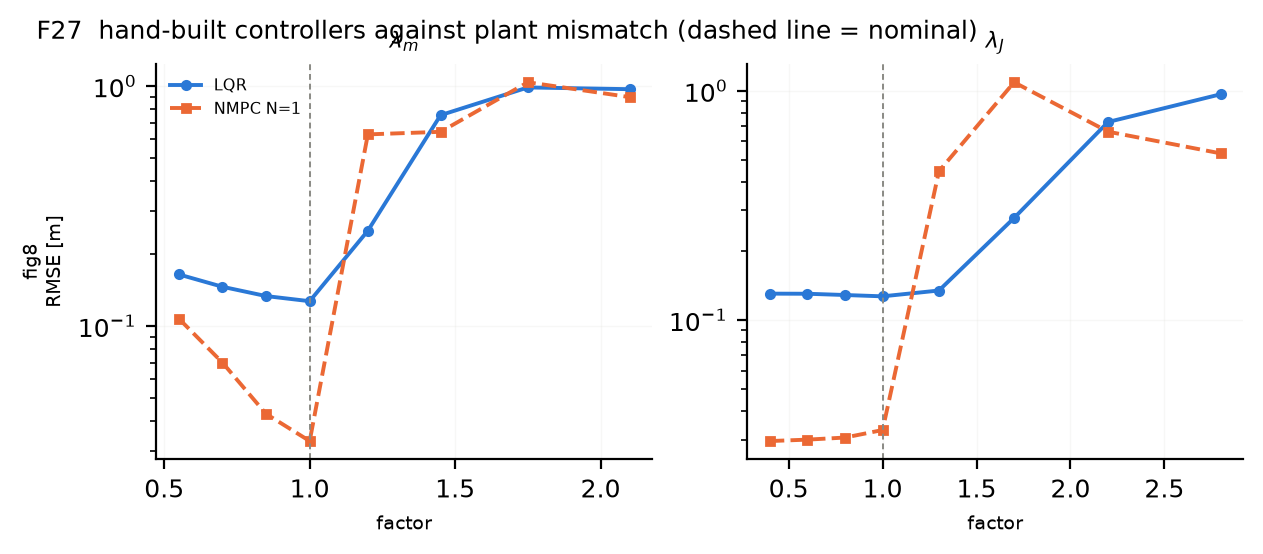
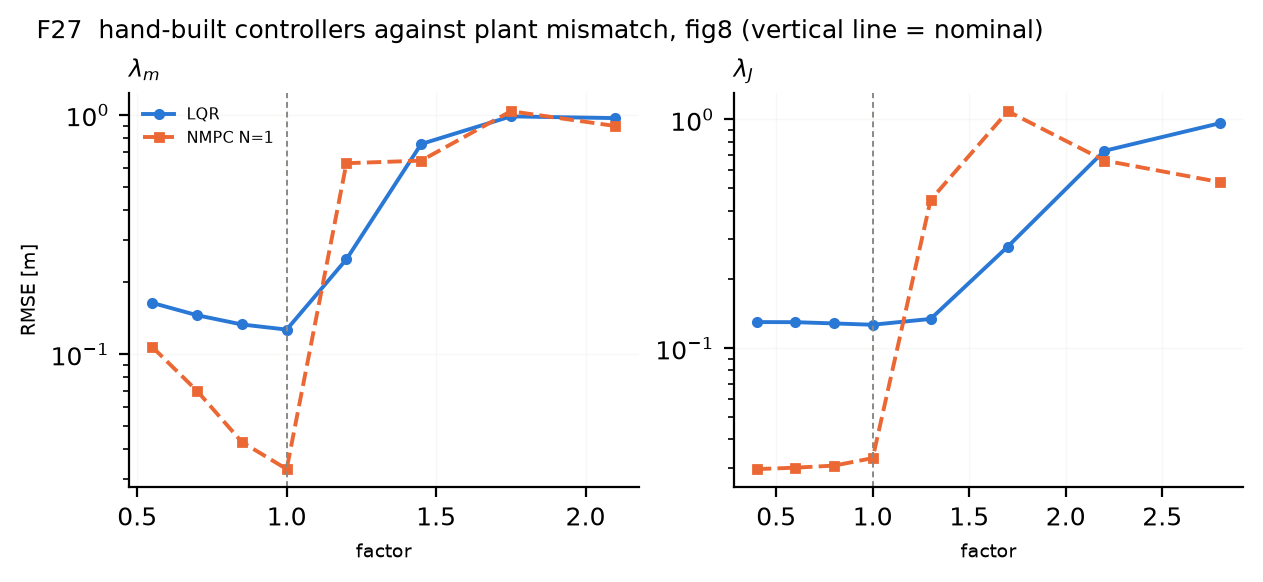
nb8: report the ABSOLUTE crossover beside the relative break factor
The break factor measures 3x each controller's OWN nominal, so a controller
that starts more accurate trips it sooner while still leading.  NMPC N=1
sits at 0.031 m at nominal against LQR's 0.127 m, so "NMPC breaks at 0.55x
mass" means it reached 0.093 m there -- where LQR was at 0.168 m and
therefore still worse.  The previous commit's headline, "NMPC N=1 is more
fragile to model mismatch than LQR on both axes", is true of the SLOPE and
false of the LEVEL over much of the range.  It should not have been stated
as a result off a relative metric alone.

_crossover() now reports the factor at which NMPC N=1 actually stops
beating LQR in absolute RMSE, computed separately above and below nominal,
because mismatch has two directions and a controller can be robust to one
and not the other.  Measured at smoke:

                NMPC loses below      NMPC loses above
    lambda_m           never                1.20x
    lambda_J           never                1.30x

so the honest statement is that NMPC N=1 beats LQR for ANY under-estimate
of mass or inertia and loses only above a 20 % mass or 30 % inertia
OVER-estimate.  The online solve degrades faster from a lower base; whether
that is "less robust" depends on the question, and the two columns disagree
over much of the range.  Both are now printed side by side with a note
saying the relative one must not be read alone.

Also fixes F27/F29 layout: the panel titles collided with the suptitle and
[…]

diff --git a/study/notebooks/nb8_sensitivity.py b/study/notebooks/nb8_sensitivity.py
@@ -122,11 +122,14 @@ for _a in AXES:
 
 
 def _breakpoint(df, ctrl, axis, thresh=3.0):
-    """Factor at which RMSE first exceeds `thresh` x its nominal value.
+    """Factor at which RMSE first exceeds `thresh` x **its own** nominal.
 
-    Reported instead of a bare worst case because 'where it breaks' is the
-    question; a controller that degrades gracefully to 2x over a 4x parameter
-    error is a different object from one that is fine until it is not.
+    A RELATIVE measure, and it must be read as one: a controller that starts
+    four times more accurate trips a 3x threshold four times sooner while still
+    being ahead in absolute terms.  Measured here, NMPC N=1 sits at 0.031 m at
+    nominal against LQR's 0.127 m, so "NMPC breaks at 0.55x mass" means it
+    reached 0.093 m there -- where LQR was at 0.168 m and therefore still worse.
+    Read this column beside :func:`_crossover`, never alone.
     """
     d = df[(df.ctrl == ctrl) & (df.axis == axis)].groupby("level").rmse.median()
     if 1.0 not in d.index:
@@ -136,12 +139,43 @@ def _breakpoint(df, ctrl, axis, thresh=3.0):
     return float(bad.index.min()) if len(bad) else np.nan
 
 
+def _crossover(df, a, b, axis, side):
+    """Factor at which `a` stops being better than `b`, in ABSOLUTE RMSE.
+
+    The question the relative break factor cannot answer: a steeper slope from a
+    lower starting point may never actually lose.  `side` is 'up' or 'down' --
+    mismatch has two directions and a controller can be robust to one and not
+    the other.
+    """
+    da = df[(df.ctrl == a) & (df.axis == axis)].groupby("level").rmse.median()
+    db = df[(df.ctrl == b) & (df.axis == axis)].groupby("level").rmse.median()
+    lv = sorted(set(da.index) & set(db.index))
+    lv = [x for x in lv if (x >= 1.0 if side == "up" else x <= 1.0)]
+    if side == "down":
+        lv = lv[::-1]
+    for x in lv:
+        if da.loc[x] > db.loc[x]:
+            return float(x)
+    return np.nan
+
+
 bp = pd.DataFrame([
-    dict(axis=a, **{c: _breakpoint(MH, c, a) for c in ("LQR", "NMPC N=1")})
+    dict(axis=a,
+         nominal_LQR=float(MH[(MH.ctrl == "LQR") & (MH.axis == a) &
+                              (MH.level == 1.0)].rmse.median()),
+         nominal_NMPC=float(MH[(MH.ctrl == "NMPC N=1") & (MH.axis == a) &
+                               (MH.level == 1.0)].rmse.median()),
+         break_LQR=_breakpoint(MH, "LQR", a),
+         break_NMPC=_breakpoint(MH, "NMPC N=1", a),
+         NMPC_loses_above=_crossover(MH, "NMPC N=1", "LQR", a, "up"),
+         NMPC_loses_below=_crossover(MH, "NMPC N=1", "LQR", a, "down"))
     for a in AXES])
-S.table(bp, "Break factor (first level at 3x the nominal RMSE; NaN = never)",
-        note="NaN means the controller never degraded 3x anywhere in the swept "
-             "range -- read it beside the range, not alone",
+S.table(bp, "Where each hand-built arm gives way",
+        note="`break_*` is RELATIVE (3x that controller's OWN nominal) and a more "
+             "accurate controller trips it sooner while still leading; "
+             "`NMPC_loses_*` is the ABSOLUTE crossover, the factor at which NMPC "
+             "N=1 stops beating LQR.  NaN in the crossover columns means NMPC "
+             "never lost on that side of nominal.",
         csv=("sensitivity", "model_hand_breakpoints.csv"))
 
 fig, axs = plt.subplots(len(MIS_PATHS), len(AXES),
@@ -161,22 +195,33 @@ for i, path in enumerate(MIS_PATHS):
         for sp in ("top", "right"):
             a.spines[sp].set_visible(False)
         if i == 0:
-            a.set_title(rf"$\lambda_{{{axis}}}$", fontsize=8)
+            a.set_title(rf"$\lambda_{{{axis}}}$", fontsize=8.5, loc="left")
         if j == 0:
-            a.set_ylabel(f"{path}\nRMSE [m]", fontsize=7)
+            a.set_ylabel("RMSE [m]", fontsize=7)
         a.set_xlabel("factor", fontsize=7)
 axs[0, 0].legend(fontsize=5.6)
-fig.suptitle("F27  hand-built controllers against plant mismatch "
-             "(dashed line = nominal)", fontsize=9, x=0.02, ha="left", y=1.005)
+fig.suptitle(f"F27  hand-built controllers against plant mismatch, {MIS_PATHS[0]} "
+             "(vertical line = nominal)", fontsize=9, x=0.02, ha="left", y=1.06)
 fig.savefig(f"{FIG}/F27_model_mismatch_hand.png", bbox_inches="tight", dpi=200)
 MH.to_csv(f"{FIG}/F27_model_mismatch_hand.csv", index=False)
 plt.close(fig)
 
-print("\n  ANALYSIS -- where each hand-built arm breaks:")
+f_ = lambda v: "never in range" if not np.isfinite(v) else f"{v:g}x"
+print("\n  ANALYSIS -- two different questions, two different answers:")
+print("    (a) RELATIVE: 3x its own nominal.  The more accurate controller")
+print("        trips this sooner even while still leading in absolute terms.")
 for a_ in AXES:
-    l_, n_ = _breakpoint(MH, "LQR", a_), _breakpoint(MH, "NMPC N=1", a_)
-    f = lambda v: "never in range" if not np.isfinite(v) else f"{v:g}x"
-    print(f"    lambda_{a_:4s}: LQR {f(l_):>14s}   NMPC N=1 {f(n_):>14s}")
+    print(f"        lambda_{a_:4s}: LQR {f_(_breakpoint(MH, 'LQR', a_)):>14s}"
+          f"   NMPC N=1 {f_(_breakpoint(MH, 'NMPC N=1', a_)):>14s}")
+print("    (b) ABSOLUTE: the factor at which NMPC N=1 stops beating LQR.")
+for a_ in AXES:
+    up = _crossover(MH, "NMPC N=1", "LQR", a_, "up")
+    dn = _crossover(MH, "NMPC N=1", "LQR", a_, "down")
+    print(f"        lambda_{a_:4s}: above nominal {f_(up):>14s}"
+          f"   below nominal {f_(dn):>14s}")
+print("    The online solve degrades FASTER from a lower base.  Whether that")
+print("    means it is less robust depends on which question is being asked,")
+print("    and the two columns disagree over much of the range.")
 
 
 # %% [markdown]
@@ -363,13 +408,13 @@ if LEARNED_OK:
             for sp_ in ("top", "right"):
                 a.spines[sp_].set_visible(False)
             if i == 0:
-                a.set_title(rf"$\lambda_{{{axis}}}$", fontsize=8)
+                a.set_title(rf"$\lambda_{{{axis}}}$", fontsize=8.5, loc="left")
             if j == 0:
-                a.set_ylabel(f"{path}\nRMSE [m]", fontsize=7)
+                a.set_ylabel("RMSE [m]", fontsize=7)
             a.set_xlabel("factor", fontsize=7)
     axs[0, 0].legend(fontsize=5.2)
-    fig.suptitle("F29  learned controllers against plant mismatch",
-                 fontsize=9, x=0.02, ha="left", y=1.005)
+    fig.suptitle(f"F29  learned controllers against plant mismatch, "
+                 f"{MIS_PATHS[0]}", fontsize=9, x=0.02, ha="left", y=1.06)
     fig.savefig(f"{FIG}/F29_model_mismatch_learned.png", bbox_inches="tight", dpi=200)
     ML.to_csv(f"{FIG}/F29_model_mismatch_learned.csv", index=False)
     plt.close(fig)
